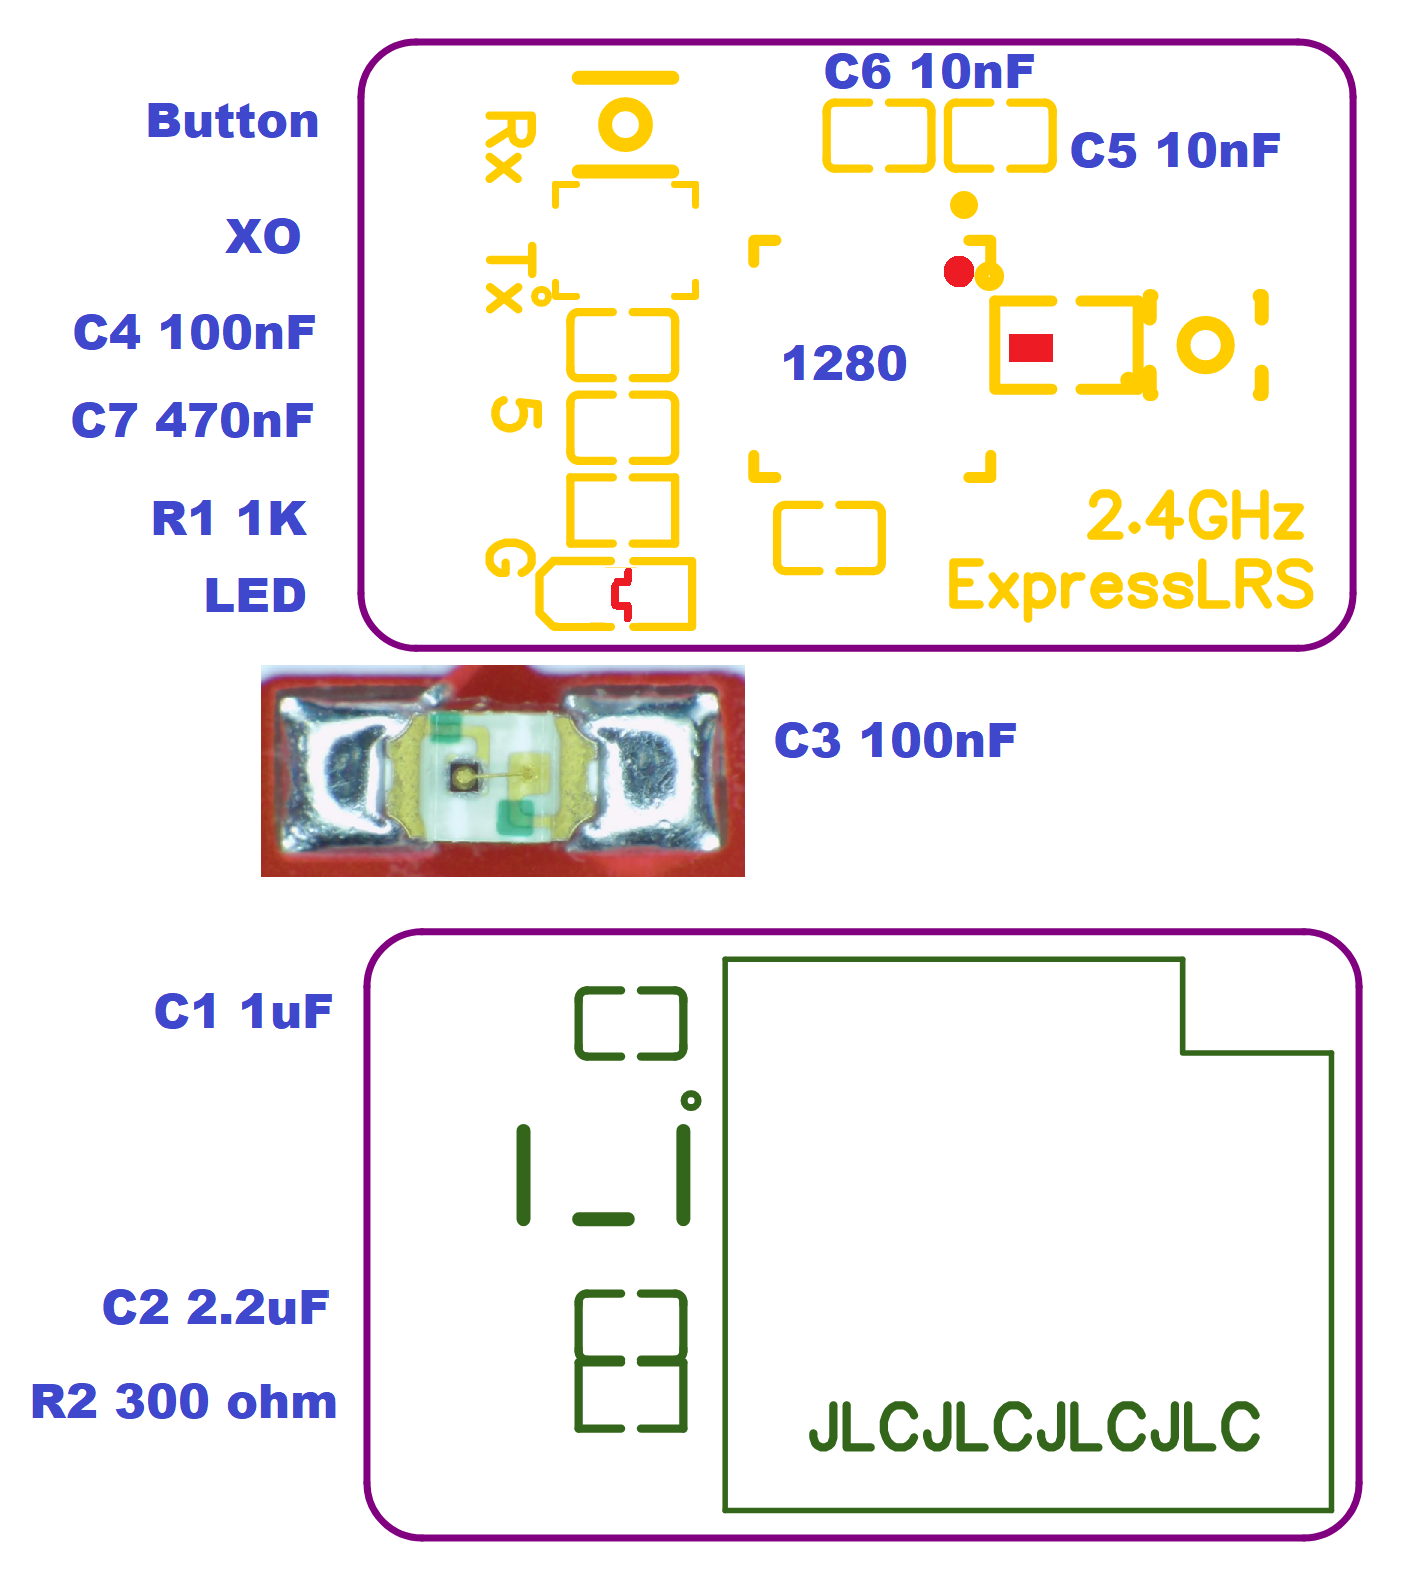
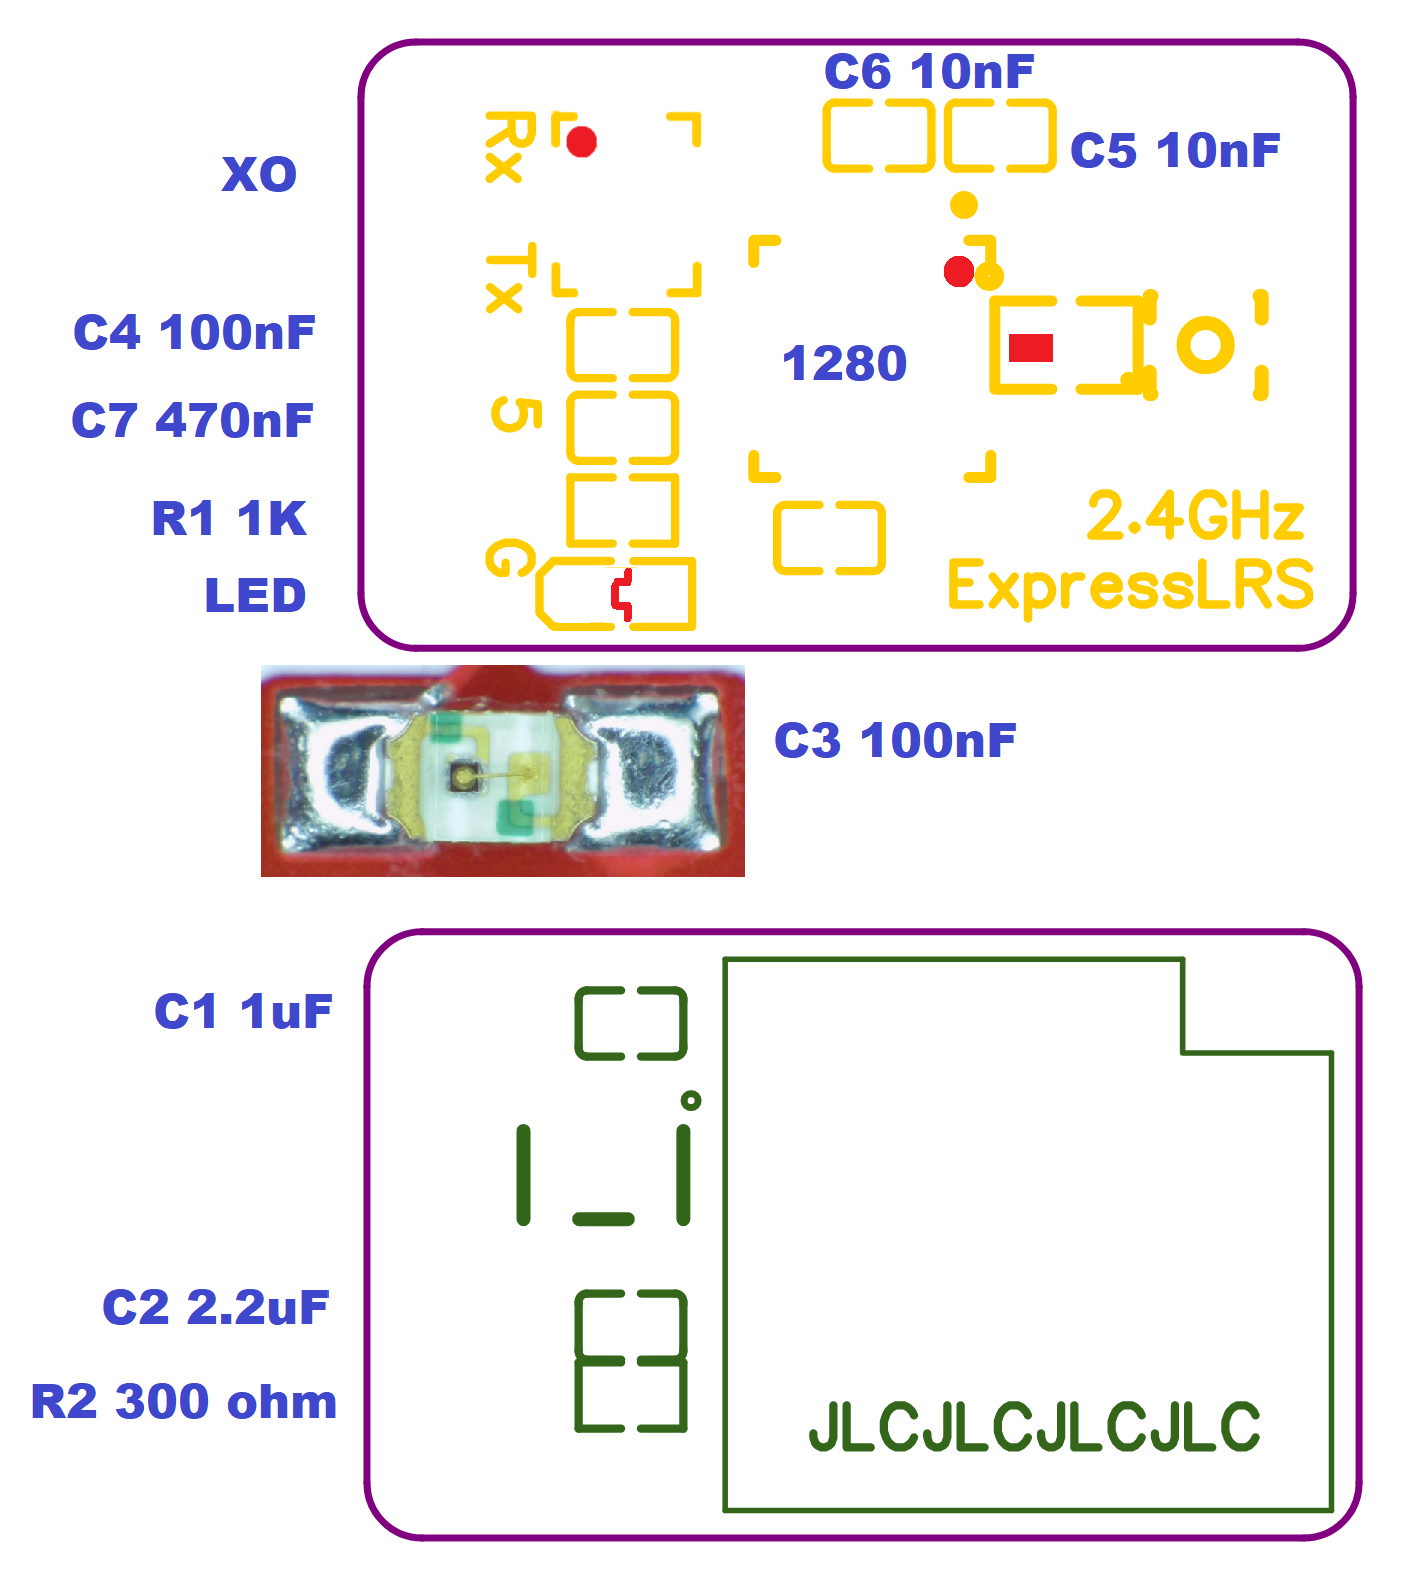
added details on XO orientation for nano rx and changed the cheet accordingly

diff --git a/PCB/2400MHz/RX_Nano/README.md b/PCB/2400MHz/RX_Nano/README.md
@@ -61,4 +61,7 @@ https://youtu.be/bOKTOFyyGHo
 
 I made the below image as a quick reference to help when placing components.
 
+Pay attention to the crystal's placement. Orientation differs on older PCBs.
+In any case you want the crystal's pin number 1 to be grounded. 
+
 <img src="img/build_cheat_sheet.png" width="40%">
